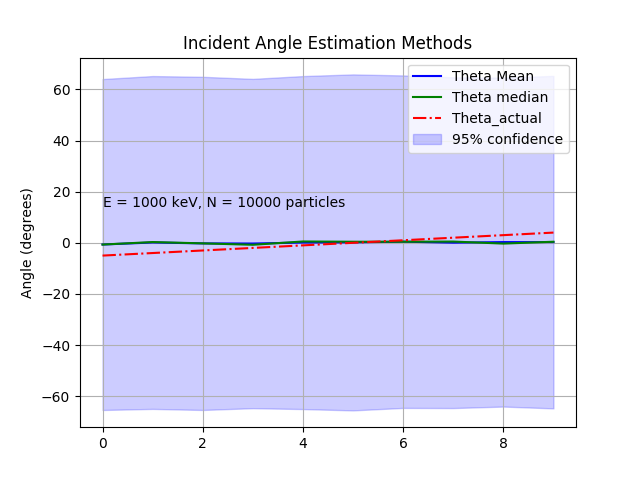
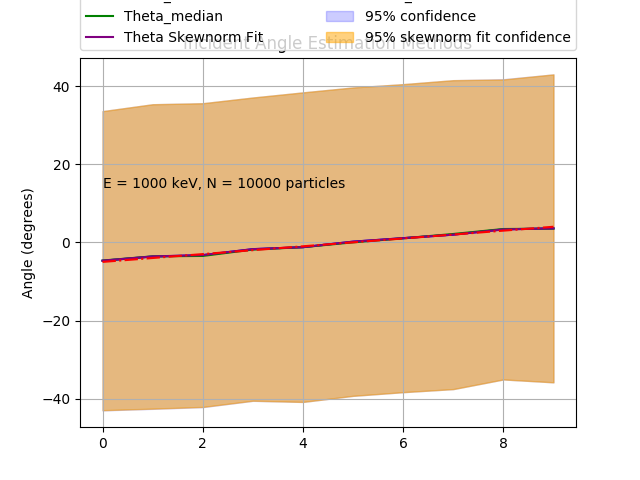
reorganized result images into folders, created run_over_angles file for batch runs over various angles, energies

diff --git a/analysis/fncs/fnc_calc_angle_per_particle.py b/analysis/fncs/fnc_calc_angle_per_particle.py
@@ -10,6 +10,7 @@ from scipy.stats import norm, skewnorm
 from .fnc_findSourceAngle import findSourceAngle
 
 def calculateAnglePerParticle():
+    # Read in raw hit data
     detector_hits = pd.read_csv('./data/hits.csv',
                                names=["det","x", "y", "z","energy", "code"],
                                dtype={"det": np.int8, "x":np.float64,
@@ -33,7 +34,7 @@ def calculateAnglePerParticle():
     deltaX = np.zeros(len(det), dtype=np.float64)
     deltaZ = np.zeros(len(det), dtype=np.float64)
 
-    gap = 0.52 # cm
+    gap = 0.51 # cm
 
     array_counter = 0
     for count, el in enumerate(det):
@@ -76,8 +77,8 @@ def calculateAnglePerParticle():
     del deltaZ
 
     # Find angles in degrees
-    theta = np.arctan2(deltaZ_rm, gap) * 180 / np.pi
-    phi = np.arctan2(deltaX_rm, gap) * 180 / np.pi
+    theta = np.rad2deg(np.arctan2(deltaZ_rm, gap))
+    phi = np.rad2deg(np.arctan2(deltaX_rm, gap))
 
     # Fit a standard normal distribution to data
     try:
@@ -91,9 +92,19 @@ def calculateAnglePerParticle():
 
     except:
         pass
+        
     # Fit skew normal distribution to data
-    mean_t, var_t, skew_t = skewnorm.fit(theta)
-    mean_p, var_p, skew_p = skewnorm.fit(phi)
+    alpha_t, loc_t, scale_t = skewnorm.fit(theta)
+    alpha_p, loc_p, scale_p = skewnorm.fit(phi)
+
+    delta_t = alpha_t/np.sqrt(1+alpha_t**2)
+    delta_p = alpha_t/np.sqrt(1+alpha_p**2)
+
+    mean_t = loc_t + scale_t*delta_t*np.sqrt(2/np.pi)
+    mean_p = loc_p + scale_p*delta_p*np.sqrt(2/np.pi)
+
+    sig_t = np.sqrt(scale_t**2 * (1 - 2*(delta_t**2)/np.pi))
+    sig_p = np.sqrt(scale_p**2 * (1 - 2*(delta_p**2)/np.pi))
 
 
     theta_actual, phi_actual, numberOfParticles = findSourceAngle()
@@ -105,4 +116,6 @@ def calculateAnglePerParticle():
         ',' + str(round(np.mean(phi), 4)) + ',' + str(round(np.std(phi), 4)) +
         ',' + str(round(np.median(theta), 4)) + ',' + str(round(np.median(phi), 4)) +
         ',' + str(round(mu_theta, 4)) + ',' + str(round(std_theta, 4)) +
-        ',' + str(round(mu_phi, 4)) + ',' + str(round(std_phi, 4)) + '\n')
+        ',' + str(round(mu_phi, 4)) + ',' + str(round(std_phi, 4)) +
+        ',' + str(round(mean_t,4)) + ',' + str(round(sig_t,4)) +
+        ',' + str(round(mean_p,4)) + ',' + str(round(sig_p,4)) + '\n')

diff --git a/analysis/fncs/plotResultsFile.py b/analysis/fncs/plotResultsFile.py
@@ -4,6 +4,8 @@ import pandas as pd
 import numpy as np
 import matplotlib.pyplot as plt
 
+import time
+
 def plotResults(energy):
     d = pd.read_csv('./data/results.txt')
 
@@ -11,16 +13,17 @@ def plotResults(energy):
     fig = plt.figure()
 
     # Mean
-    plt.plot(d.index, d['Theta_mean'], color='b', label='Theta Mean')
+    plt.plot(d.index, d['Theta_mean'], color='b')
     plt.fill_between(d.index, d['Theta_mean']-1.96*d['Theta_std'], d['Theta_mean']+1.96*d['Theta_std'],
                      color='blue', alpha=0.2, label='95% confidence')
 
-
     # Median
-    plt.plot(d.index, d['Theta_median'], color='g', label='Theta median')
+    plt.plot(d.index, d['Theta_median'], color='g')
 
-    # Normal fit
-    #plt.errorbar(x=d.index, y=d['Theta_normfit'], yerr=(d['T_s_nf']/np.sqrt(d['Number_Particles'])))
+    # Skew normal fit
+    plt.plot(d.index, d['Theta_snormfit'], color='purple', label='Theta Skewnorm Fit')
+    plt.fill_between(d.index, d['Theta_snormfit']-1.96*d['T_s_snf'], d['Theta_snormfit']+1.96*d['T_s_snf'],
+                     color='orange', alpha=0.5, label='95% skewnorm fit confidence')
 
     # Actual
     plt.plot(d['Theta_actual'], linestyle='-.', color='r')
@@ -31,6 +34,8 @@ def plotResults(energy):
     plt.ylabel('Angle (degrees)')
     plt.title('Incident Angle Estimation Methods')
     plt.grid()
-    plt.legend()
+    plt.legend(bbox_to_anchor=(0., 1.02, 1., .102), loc=3,
+               ncol=2, mode='expand', borderaxespad=0.)
 
-    fig.savefig('../results/angle_est_%i_kev.png' % int(energy), dpi=fig.dpi)
+    fileName = '../results/angle_est_%i_kev_' % int(energy) + str(time.strftime("%m%d_%H%M%S")) + '.png'
+    fig.savefig(fileName, dpi=fig.dpi)

diff --git a/src/DetectorConstruction.cc b/src/DetectorConstruction.cc
@@ -125,13 +125,13 @@ G4VPhysicalVolume* DetectorConstruction::Construct()
   // Dimensions for detectors (both use the same dimensions)
   G4double detector_dimX = 5.*cm;
   G4double detector_dimZ = 5.*cm;
-  G4double detector1_thickness = 200*um;
-  G4double detector2_thickness = 1*mm;
+  G4double detector1_thickness = 20.*um;
+  G4double detector2_thickness = 100.*um;
 
-  G4double distance_between_detectors = 5*mm;
+  G4double distance_between_detectors = 5.*mm;
 
   // Window dimensions
-  G4double window_thickness = 50*um;
+  G4double window_thickness = 20*um;
   G4double window_height    = 5.*cm;  // square window with this side dimension
   G4double window_gap       = 1.*mm;
 
